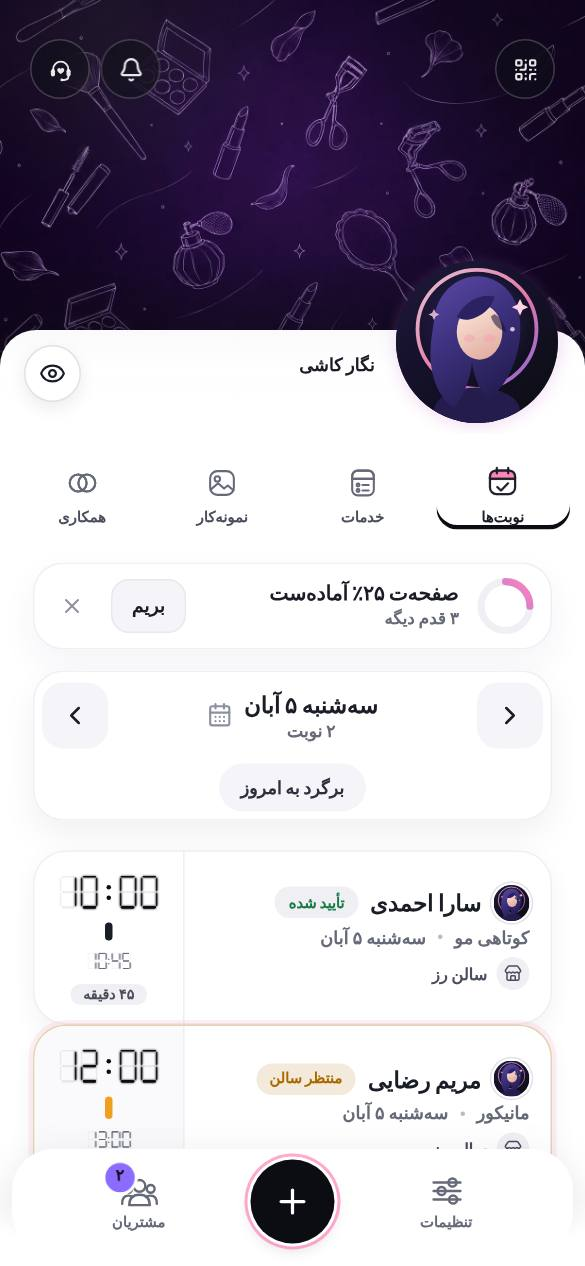
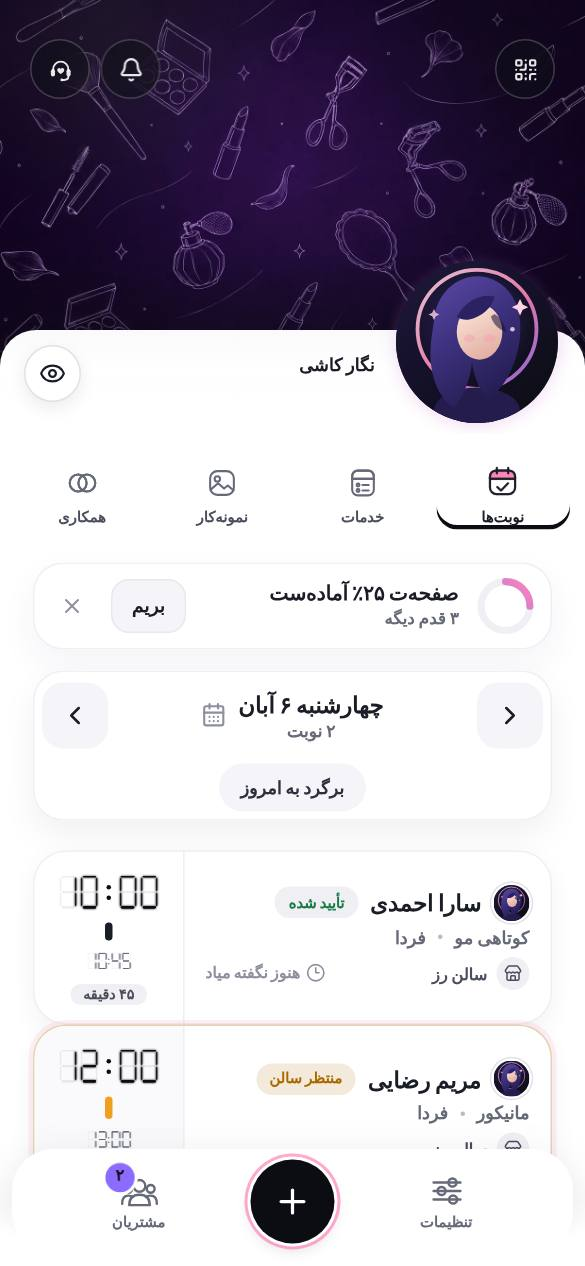
Certainty without a deposit: tests, privacy text, docs, fresh screenshots
Integration tests for «میای؟», the client's record and «خبرم کن»; unit tests
for the shared rules. Privacy page §1/§2 say what salons see. DECISIONS,
ROADMAP and OPERATIONS (the WAITLIST_OPEN SMS pattern) updated. Copy fixes
found on the screenshots.

Claude-Session: https://claude.ai/code/session_01VwnzUk4Foou2FFU7VteQPu

diff --git a/tests/integration/certainty.test.js b/tests/integration/certainty.test.js
@@ -1,0 +1,160 @@
+import { describe, it, expect } from "vitest";
+import { futureBookingDay } from "./helpers.js";
+import {
+  cancelByClient, confirmSalon, moveBooking, moveToDaysAgo, newClient, newSalon, openDb, requestSalon, reminderSweep, salonRow
+} from "./afterVisitKit.js";
+import { bookingStartMs } from "../../app/shared/lib/reminderTiming.js";
+import { formatPersianDateKey } from "../../app/shared/lib/persianCalendar.js";
+import { toLatinDigits } from "../../app/shared/lib/digits.js";
+
+/**
+ * «اطمینان بدون بیعانه» (owner's decision of 2026-10-27): «میای؟» the day before, the client's record across frfro,
+ * and «خبرم کن» for a full day.
+ */
+
+/** A date key and "HH:MM" (Tehran) about `hours` from now, as the app reads them. */
+function slotHoursAhead(hours) {
+  const target = Date.now() + hours * 3600e3;
+  const minutes = (Math.floor(target / 60000) + 210) % 1440;
+  const time = `${String(Math.floor(minutes / 60)).padStart(2, "0")}:${String(minutes % 60).padStart(2, "0")}`;
+  for (const shift of [-1, 0, 1]) {
+    const date = formatPersianDateKey(new Date(target + shift * 86400e3));
+    const start = bookingStartMs(date, time, new Date());
+    if (start !== null && Math.abs(start - target) < 60000) return { date, time };
+  }
+  throw new Error("could not place a slot");
+}
+
+async function confirmedVisit(ctx, who, opts) {
+  const made = await requestSalon(ctx, who, opts);
+  expect(made.ok).toBe(true);
+  const id = made.payload.data.booking.id;
+  expect((await confirmSalon(ctx, id)).ok).toBe(true);
+  return id;
+}
+
+const attend = (who, id, kind = "salon") => who.api.post("/api/booking-attend", { kind, id });
+
+describe("«میای؟»", () => {
+  it("is answered only in the last day before a confirmed visit, by its own client", async () => {
+    const db = openDb();
+    const ctx = await newSalon("Attend");
+    const who = await newClient("Attend Client");
+    const other = await newClient("Other Client");
+    const id = await confirmedVisit(ctx, who, { day: futureBookingDay(3), time: "11:00" });
+
+    // Three days ahead: not asked yet.
+    const early = await attend(who, id);
+    expect(early.status).toBe(409);
+
+    await moveBooking(db, "salon_bookings", id, slotHoursAhead(5));
+    expect((await attend(other, id)).status).toBe(404);
+    const yes = await attend(who, id);
+    expect(yes.ok).toBe(true);
+    expect(yes.payload.data.changed).toBe(true);
+    const again = await attend(who, id);
+    expect(again.payload.data.changed).toBe(false);
+
+    // The salon sees the answer on the booking; the client's own list carries it too.
+    expect((await salonRow(ctx, id)).client_confirmed_at).toBeTruthy();
+    const mine = (await who.api.get("/api/client-bookings")).payload.data.salonBookings.find((b) => b.id === id);
+    expect(mine.client_confirmed_at).toBeTruthy();
+    await db.end();
+  });
+
+  it("the day-before reminder asks the question", async () => {
+    const db = openDb();
+    const ctx = await newSalon("Ask");
+    const who = await newClient("Ask Client");
+    const day = futureBookingDay(2);
+    const id = await confirmedVisit(ctx, who, { day, time: "14:00" });
+    const start = bookingStartMs(day, "14:00", new Date());
+    await reminderSweep(new Date(start - 5 * 3600e3));
+    const sent = await db.query("SELECT kind FROM booking_reminders WHERE source = 'salon' AND booking_id = $1", [id]);
+    expect(sent.rows[0].kind).toMatch(/^day@/);
+    await db.end();
+  });
+});
+
+describe("the client's record", () => {
+  it("counts visits and «نیومد» across salons, and shows it to the salon and the client", async () => {
+    const db = openDb();
+    const a = await newSalon("Record A");
+    const b = await newSalon("Record B");
+    const who = await newClient("Record Client");
+    const came = await confirmedVisit(a, who, { day: futureBookingDay(2), time: "10:00" });
+    const missed = await confirmedVisit(b, who, { day: futureBookingDay(2), time: "12:00" });
+    const missed2 = await confirmedVisit(b, who, { day: futureBookingDay(3), time: "12:00" });
+    await moveToDaysAgo(db, "salon_bookings", came, 10);
+    await moveToDaysAgo(db, "salon_bookings", missed, 9);
+    await moveToDaysAgo(db, "salon_bookings", missed2, 8);
+    await db.query("UPDATE salon_bookings SET no_show_at = NOW() - INTERVAL '8 days' WHERE id = ANY($1::int[])", [[missed, missed2]]);
+
+    // A new request at salon A: A sees the record built at B too.
+    const next = await requestSalon(a, who, { day: futureBookingDay(4), time: "16:00" });
+    const row = await salonRow(a, next.payload.data.booking.id);
+    expect(row.reliability).toEqual({ came: 1, noShow: 2, recentNoShow: 2 });
+
+    const own = (await who.api.get("/api/client-bookings")).payload.data.reliability;
+    expect(own).toEqual({ came: 1, noShow: 2, recentNoShow: 2 });
+    await db.end();
+  });
+});
+
+describe("«خبرم کن»", () => {
+  it("tells a waiting client when a time opens on that day, once", async () => {
+    const db = openDb();
+    const ctx = await newSalon("Wait");
+    const first = await newClient("Wait First");
+    const waiter = await newClient("Wait Second");
+    const day = futureBookingDay(2);
+    const id = await confirmedVisit(ctx, first, { day, time: "10:00" });
+
+    const joined = await waiter.api.post("/api/waitlist", {
+      kind: "salon", ownerId: ctx.id, day, services: [{ name: "کوتاهی مو", minutes: 60 }]
+    });
+    expect(joined.status).toBe(201);
+    expect(joined.payload.data.entries).toHaveLength(1);
+    const entryId = joined.payload.data.entry.id;
+    // 10:00 is taken, so it is not among what was free when they asked.
+    expect(joined.payload.data.freeNow.map(toLatinDigits)).not.toContain("10:00");
+
+    expect((await cancelByClient(first, "salon_bookings", id)).ok).toBe(true);
+    let notified = null;
+    for (let i = 0; i < 20 && !notified; i += 1) {
+      await new Promise((resolve) => setTimeout(resolve, 150));
+      notified = (await db.query("SELECT notified_at, free_signature FROM booking_waitlist WHERE id = $1", [entryId])).rows[0]?.notified_at;
+    }
+    expect(notified).toBeTruthy();
+    const after = (await db.query("SELECT free_signature FROM booking_waitlist WHERE id = $1", [entryId])).rows[0];
+    expect(toLatinDigits(after.free_signature).split(",")).toContain("10:00");
+
+    // The same opening is not announced twice by the scheduler.
+    await reminderSweep();
+    const again = (await db.query("SELECT notified_at FROM booking_waitlist WHERE id = $1", [entryId])).rows[0].notified_at;
+    expect(new Date(again).getTime()).toBe(new Date(notified).getTime());
+
+    // The client's home lists it, and it can be taken away.
+    expect((await waiter.api.get("/api/client-bookings")).payload.data.waitlist.map((e) => e.id)).toContain(entryId);
+    const removed = await waiter.api.delete(`/api/waitlist?id=${entryId}`);
+    expect(removed.ok).toBe(true);
+    expect(removed.payload.data.entries).toHaveLength(0);
+    await db.end();
+  });
+
+  it("is for clients only, within the booking horizon, and a few at a time", async () => {
+    const ctx = await newSalon("Wait Limits");
+    const who = await newClient("Wait Limits Client");
+    const services = [{ name: "کوتاهی مو", minutes: 60 }];
+    expect((await ctx.salonClient.post("/api/waitlist", { kind: "salon", ownerId: ctx.id, day: futureBookingDay(2), services })).status).toBe(403);
+    expect((await who.api.post("/api/waitlist", { kind: "artist", ownerId: ctx.id, day: futureBookingDay(2), services })).status).toBe(409);
+    expect((await who.api.post("/api/waitlist", { kind: "salon", ownerId: ctx.id, day: futureBookingDay(2), services: [] })).status).toBe(400);
+    for (let i = 1; i <= 5; i += 1) {
+      expect((await who.api.post("/api/waitlist", { kind: "salon", ownerId: ctx.id, day: futureBookingDay(i), services })).status).toBe(201);
+    }
+    expect((await who.api.post("/api/waitlist", { kind: "salon", ownerId: ctx.id, day: futureBookingDay(6), services })).status).toBe(409);
+    // Asking again for a day already on the list just renews it.
+    expect((await who.api.post("/api/waitlist", { kind: "salon", ownerId: ctx.id, day: futureBookingDay(1), services })).status).toBe(201);
+  });
+
+});

diff --git a/app/legal/content.js b/app/legal/content.js
@@ -151,6 +151,8 @@ export const privacyContent = {
         "· فهرست پرسنل (برای سالنها)",
         "هنگام استفاده از اپ:",
         "· اطلاعات رزرو (تاریخ، ساعت، نوع خدمت، پرسنل انتخابشده در مورد سالنها، وضعیت رزرو)",
+        "· جواب «میای؟» که روز قبل از نوبت میدی، و اینکه بعد از نوبت سالن یا آرتیست زده باشه «نیومد»",
+        "· روز و جایی که برای جای خالیاش «خبرم کن» زدی",
         "· فالو/آنفالوکردن پروفایلها و ذخیرهی (بوکمارک) پروفایلها و پستها",
         "· پستهایی که آرتیستها و سالنها در فید منتشر میکنن (عکس، کپشن، برچسب)",
         "· اطلاعات نشست ورود (یه کوکی امن که فقط برای شناسایی نشست فعال تو استفاده میشه؛ این کوکی حاوی هیچ اطلاعات شخصی قابلخواندن نیست و روی سرور ذخیره میشه)",
@@ -171,6 +173,8 @@ export const privacyContent = {
         "· فالو/بوکمارک و فید: برای شخصیسازی تجربهی استفاده از اپ",
         "· دنبال کردن یه سالن یا آرتیست: یعنی از اون به بعد با هم در ارتباطید؛ اسم و شمارهٔ موبایل حساب تو به همون سالن/آرتیست نشون داده میشه و جزو مشتریهاش ثبت میشه تا بتونه باهات تماس بگیره یا پیام بفرسته. رمز عبور هیچوقت به کسی نشون داده نمیشه. هر وقت بخوای میتونی دنبال کردن رو لغو کنی",
         "· پوش نوتیفیکیشن: فقط در صورت روشنکردن توسط خودت، برای اطلاعرسانی تغییر وضعیت رزرو (مثلاً تأیید یا لغو نوبت)",
+        "· سابقهٔ اومدن سر نوبت: سالن یا آرتیستی که ازش نوبت گرفتی یا درخواست دادی، کنار اسمت فقط دو عدد میبینه: چند بار توی فرفرو سر نوبت اومدی و چند بار زده شده «نیومد» (جمعِ همهٔ سالنها و آرتیستها، بدون اسم اونها و بدون تاریخ). جواب «میای؟» هم به همون سالن یا آرتیستِ همون نوبت نشون داده میشه. هدف اینه که سالن بدون گرفتن بیعانه خیالش راحت باشه؛ این عددها به هیچکس دیگه نشون داده نمیشه و خودت هم توی اپ میبینیشون. اگه «نیومد»ی اشتباه زده شده، از روی همون نوبت «اشتباهه؟» رو بزن تا پشتیبانی بررسی کنه",
+        "· «خبرم کن»: فقط برای اینکه اگه اون روز جا خالی شد بهت اعلان (و اگه اعلان نرسید، پیامک) بدیم؛ روزش که گذشت، پاک میشه",
         "· سابقهٔ پرداخت اشتراک: برای فعال کردن اشتراک، صدور رسید، پیگیری با بانک، بازپرداخت، یادآوری پایان اشتراک (اعلان و پیامک) و نگهداری اسناد مالی",
         "· اشتراک آرتیستهای تیم سالن: وضعیت اشتراک آرتیستی که عضو تیم یک سالنه (فعال، رایگان یا تمامشده، و تاریخ پایان) به همون سالن نشون داده میشه تا اگه خواست بتونه برای آرتیست پرداخت کنه؛ و وقتی سالن پرداخت کرد، نام سالن در رسید آرتیست و نام آرتیست در رسید سالن دیده میشه"
       ]

diff --git a/tests/unit/attendance.test.js b/tests/unit/attendance.test.js
@@ -1,0 +1,62 @@
+import { describe, it, expect } from "vitest";
+import { attendanceState, ownerAttendanceState, reliabilityView, ownReliabilityLine } from "../../app/shared/lib/attendance.js";
+import { bookingStartMs } from "../../app/shared/lib/reminderTiming.js";
+import { formatPersianDateKey } from "../../app/shared/lib/persianCalendar.js";
+
+const now = new Date("2026-10-27T08:00:00Z"); // 11:30 in Tehran
+
+/** A booking `hours` after `now`, as stored (Persian date key, "HH:MM" Tehran). */
+function at(hours, extra = {}) {
+  const target = now.getTime() + hours * 3600e3;
+  const minutes = (Math.floor(target / 60000) + 210) % 1440;
+  const time = `${String(Math.floor(minutes / 60)).padStart(2, "0")}:${String(minutes % 60).padStart(2, "0")}`;
+  for (const shift of [-1, 0, 1]) {
+    const date = formatPersianDateKey(new Date(target + shift * 86400e3));
+    if (Math.abs(bookingStartMs(date, time, now) - target) < 60000) return { booking_date: date, time, status: "تایید شده", ...extra };
+  }
+  throw new Error("no slot");
+}
+
+describe("«میای؟»", () => {
+  it("asks within the last day of a confirmed visit only", () => {
+    expect(attendanceState(at(30), now)).toBe(null);
+    expect(attendanceState(at(20), now)).toBe("ask");
+    expect(attendanceState(at(1), now)).toBe("ask");
+    expect(attendanceState(at(-1), now)).toBe(null);
+    expect(attendanceState(at(5, { status: "درخواست" }), now)).toBe(null);
+    expect(attendanceState(at(5, { status: "لغو" }), now)).toBe(null);
+    expect(attendanceState(at(5, { proposal: { time: "12:00" } }), now)).toBe(null);
+  });
+
+  it("remembers a yes, even before the window", () => {
+    expect(attendanceState(at(5, { client_confirmed_at: now.toISOString() }), now)).toBe("yes");
+  });
+
+  it("shows the salon or artist the answer for client accounts only", () => {
+    expect(ownerAttendanceState(at(5, { client_user_id: 3 }), now)).toBe("waiting");
+    expect(ownerAttendanceState(at(5, { client_user_id: 3, client_confirmed_at: "x" }), now)).toBe("yes");
+    expect(ownerAttendanceState(at(5), now)).toBe(null);
+    // A salon's own «تازه» is settled; an artist's «تازه» is still a request.
+    expect(ownerAttendanceState(at(5, { client_user_id: 3, status: "تازه" }), now, "salon")).toBe("waiting");
+    expect(ownerAttendanceState(at(5, { client_user_id: 3, status: "تازه" }), now, "artist")).toBe(null);
+  });
+});
+
+describe("the client's record", () => {
+  it("reads as words the salon understands", () => {
+    expect(reliabilityView(null)).toBe(null);
+    expect(reliabilityView({ came: 0, noShow: 0, recentNoShow: 0 }).line).toBe("اولین نوبتش توی فرفروئه.");
+    expect(reliabilityView({ came: 4, noShow: 0, recentNoShow: 0 })).toMatchObject({ tone: "good", chip: "خوشقول", warn: "" });
+    expect(reliabilityView({ came: 2, noShow: 0, recentNoShow: 0 }).chip).toBe("");
+    expect(reliabilityView({ came: 5, noShow: 1, recentNoShow: 1 })).toMatchObject({ tone: "mid", chip: "۱ بار نیومده", warn: "" });
+    const bad = reliabilityView({ came: 5, noShow: 3, recentNoShow: 2 });
+    expect(bad.tone).toBe("bad");
+    expect(bad.warn).toContain("۶ ماه");
+  });
+
+  it("tells the client their own record", () => {
+    expect(ownReliabilityLine({ came: 0, noShow: 0 })).toBe("");
+    expect(ownReliabilityLine({ came: 12, noShow: 0 })).toContain("۱۲ بار");
+    expect(ownReliabilityLine({ came: 3, noShow: 2, recentNoShow: 2 })).toContain("زودتر لغو کن");
+  });
+});

diff --git a/app/features/client/ClientBookingsPanel.jsx b/app/features/client/ClientBookingsPanel.jsx
@@ -209,7 +209,7 @@ export function ClientBookingsPanel({ bookings = [], onOpenSettings, onRebook, c
                   <li key={entry.id} className={entry.notified_at ? "is-open" : ""}>
                     <button type="button" className="cbpWaitMain" onClick={open}>
                       <span>{entry.owner_name || (entry.owner_kind === "artist" ? "آرتیست" : "سالن")}، {formatRelativeBookingDayLabel(entry.booking_date)}</span>
-                      <small>{entry.notified_at ? "یه جا خالی شد؛ بزن و زود بگیرش" : `${services}؛ خالی شد، خبرت میکنیم`}</small>
+                      <small>{entry.notified_at ? "یه جا خالی شد؛ بزن و زود بگیرش" : `${services}؛ اگه جا باز شد خبرت میکنیم`}</small>
                     </button>
                     {onLeaveWaitlist ? (
                       <button type="button" className="cbpWaitDrop" aria-label="دیگه خبرم نکن" onClick={() => onLeaveWaitlist(entry)}>

diff --git a/app/features/schedule/ScheduleBookingMenuModal.jsx b/app/features/schedule/ScheduleBookingMenuModal.jsx
@@ -4,6 +4,7 @@ import { useEffect, useMemo, useState } from "react";
 import { ServiceIcon } from "../../components/ServiceIcon";
 import { ownerAttendanceState, reliabilityView } from "../../shared/lib/attendance";
 import {
+  AlertTriangle,
   ArrowRight,
   BadgeCheck,
   CalendarCheck,
@@ -266,7 +267,7 @@ function ClientTrust({ booking }) {
     <div className={`sbmTrust${record?.warn ? " is-warn" : ""}`}>
       {record ? (
         <p>
-          <BadgeCheck size={15} aria-hidden="true" />
+          {record.warn ? <AlertTriangle size={15} aria-hidden="true" /> : <BadgeCheck size={15} aria-hidden="true" />}
           <span>{record.line}{record.warn ? ` ${record.warn}` : ""}</span>
         </p>
       ) : null}

diff --git a/app/features/booking/WaitlistButton.jsx b/app/features/booking/WaitlistButton.jsx
@@ -37,7 +37,7 @@ export function WaitlistButton({ kind, ownerId, day, dayLabel = "", services, pl
         <span>
           {current.freeNow.length
             ? `الان ساعت ${clockText(current.freeNow[0])} خالیه؛ همین روز رو یه بار دیگه بزن.`
-            : `باشه! ${dayLabel || "این روز"} اگه ${placeLabel || "جایی"} خالی شد، همون لحظه خبرت میکنیم.`}
+            : `باشه! ${dayLabel || "این روز"} اگه ${placeLabel || "اونجا"} جا خالی شد، همون لحظه خبرت میکنیم.`}
         </span>
       </div>
     );

diff --git a/docs/OPERATIONS.md b/docs/OPERATIONS.md
@@ -87,13 +87,14 @@
 ### پیامکهای الگو (نوبت و اشتراک)
 دو پیامک نوبت مهمتریناند: Push مرورگر (بهخصوص در آیفون) در ایران قابلاتکا نیست، پس بدون پیامک سالن از درخواست تازه خبر ندارد و درخواست بعد از مهلت منقضی میشود. کسی که اپ اندروید فرفرو را دارد و اعلانش روشن است، بهجای پیامک فقط اعلان اپ میگیرد (پایینتر: «اعلان اپ اندروید»). متن پیشنهادی: «فرفرو: درخواست تازه از %who%، %day% ساعت %time%. توی اپ جواب بده.» (مشتری میتواند تا خود نوبت صبر کند، پس متن از منقضی شدن حرف نمیزند؛ وقتی درخواست به سالن یا آرتیست دوم میرود، به او هم همین پیامک میرسد) و «فرفرو: نوبتت %day% ساعت %time% توی %who% %result%.» (نتیجه: «تأیید شد»، «لغو شد» یا «منقضی شد»؛ منقضی شدن فقط به مشتریای پیامک میشود که اعلانی به او نرسید).
 
-شانزده پیامک، هر کدام با الگوی جدا در سرویس پیامک و یک متغیر محیطی. تا الگو تنظیم نشود، فقط اعلان گوشی میرود. متن پیشنهادی و نام متغیرها در `app/lib/smsTemplates.js` است:
+هفده پیامک، هر کدام با الگوی جدا در سرویس پیامک و یک متغیر محیطی. تا الگو تنظیم نشود، فقط اعلان گوشی میرود. متن پیشنهادی و نام متغیرها در `app/lib/smsTemplates.js` است:
 | پیامک | کاوهنگار | فراز اساماس | متغیرها |
 |---|---|---|---|
 | درخواست نوبت تازه (به سالن یا آرتیست) | `KAVENEGAR_TEMPLATE_BOOKING_REQUEST` | `FARAZSMS_PATTERN_BOOKING_REQUEST` | token=ساعت، token10=روز، token20=مشتری و خدمت / `%who%` `%day%` `%time%` |
 | جواب درخواست نوبت (به مشتری) | `…_BOOKING_ANSWER` | `…_BOOKING_ANSWER` | token=ساعت، token10=روز، token20=سالن و نتیجه / `%who%` `%day%` `%time%` `%result%` |
 | یادآوری دو ساعت قبل (فقط به مشتریای که هیچ اعلانی به او نرسید، بیشتر آیفون) | `…_BOOKING_REMINDER` | `…_BOOKING_REMINDER` | token=ساعت، token10=سالن / `%who%` `%time%` |
 | لغو نوبت از طرف مشتری (به سالن یا آرتیست) | `…_BOOKING_CLIENT_CANCELLED` | `…_BOOKING_CLIENT_CANCELLED` | token=ساعت، token10=روز، token20=مشتری / `%who%` `%day%` `%time%` |
+| «خبرم کن»: جا خالی شد (فقط به مشتریای که اعلانش نرسید، روزی حداکثر ۳ تا). متن: «فرفرو: %who%، %day% ساعت %time% جا خالی شد. زود توی فرفرو بگیرش.» | `…_WAITLIST_OPEN` | `…_WAITLIST_OPEN` | token=ساعت، token10=روز، token20=سالن یا آرتیست / `%who%` `%day%` `%time%` |
 | رسید پرداخت (به پرداختکننده) | `KAVENEGAR_TEMPLATE_BILLING_RECEIPT` | `FARAZSMS_PATTERN_BILLING_RECEIPT` | token=شمارهٔ رسید، token2=مبلغ، token3=تاریخ پایان / `%receipt%` `%amount%` `%until%` |
 | یادآوری ۵ روز و ۱ روز مانده | `…_BILLING_REMINDER` | `…_BILLING_REMINDER` | token=روز، token2=تاریخ / `%days%` `%until%` |
 | پایان اشتراک (شروع مهلت) | `…_BILLING_ENDED` | `…_BILLING_ENDED` | token=روزهای مهلت / `%days%` |

diff --git a/docs/ROADMAP.md b/docs/ROADMAP.md
@@ -506,4 +506,6 @@
 3. **بیعانه** (صاحب محصول ۲۵ اکتبر گفت «فعلاً نه»): نسخهٔ بیدرگاه، کارتبهکارت با «واریز کردم» و «رسید / نرسید» سالن؛ پول از فرفرو رد نمیشود؛ مهلت ۲ ساعت؛ قانون لغو از سه گزینهٔ آماده؛ بعداً درگاه خود سالن. قبل از شروع، نظر وکیل.
 
 ### بیعانه: نتیجهٔ بررسیها (۲۷ اکتبر ۲۰۲۶)
-کارتبهکارت خودکار و تسهیم را صاحب محصول رد کرد (`docs/DECISIONS.md`). بیعانه با درگاه فرفرو و واریز شبانه به شبا شدنی است ولی شرکت، اینماد، قرارداد کتبی با درگاه، وکیل و حسابدار میخواهد (صفحهها: https://claude.ai/artifact/2sUgAHoz56Supj4aM386eY و https://claude.ai/artifact/LqEABhuZEGA9YFtiuxmuKQ). پیشنهاد Claude بهجای آن، «اطمینان بدون بیعانه» در پنج پله: «میای؟» روز قبل با دو دکمه، سابقهٔ آمد/نیامد مشتری در کل فرفرو کنار اسمش، تأیید سالن بعد از دو «نیومد» در شش ماه، صف انتظار برای ساعت پر، و بیعانهٔ واقعی بعداً فقط برای بدقولها (صفحه: https://claude.ai/artifact/PmhioRKomAVBGGMowhFEsd). منتظر جواب صاحب محصول.
+کارتبهکارت خودکار و تسهیم را صاحب محصول رد کرد (`docs/DECISIONS.md`). بیعانه با درگاه فرفرو و واریز شبانه به شبا شدنی است ولی شرکت، اینماد، قرارداد کتبی با درگاه، وکیل و حسابدار میخواهد (صفحهها: https://claude.ai/artifact/2sUgAHoz56Supj4aM386eY و https://claude.ai/artifact/LqEABhuZEGA9YFtiuxmuKQ). پیشنهاد Claude بهجای آن، «اطمینان بدون بیعانه» در پنج پله: «میای؟» روز قبل با دو دکمه، سابقهٔ آمد/نیامد مشتری در کل فرفرو کنار اسمش، تأیید سالن بعد از دو «نیومد» در شش ماه، صف انتظار برای ساعت پر، و بیعانهٔ واقعی بعداً فقط برای بدقولها (صفحه: https://claude.ai/artifact/PmhioRKomAVBGGMowhFEsd).
+
+**ساخته شد (۲۷ اکتبر ۲۰۲۶، به درخواست صاحب محصول):** پلههای ۱ تا ۴ (`docs/DECISIONS.md`). پلهٔ سوم به هشدار روی درخواست تبدیل شد، چون همهٔ درخواستها از قبل تأیید سالن میخواهند. باز مانده: الگوی پیامک `WAITLIST_OPEN` را صاحب محصول در پنل پیامک بسازد (`docs/OPERATIONS.md`)؛ پلهٔ پنجم (بیعانهٔ واقعی برای بدقولها) بعد از ثبت شرکت.

diff --git a/docs/DECISIONS.md b/docs/DECISIONS.md
@@ -102,3 +102,8 @@ One line each, dated. Claude reads this before asking questions.
 - 2026-10-27: Who is an admin stays the server's list of phones (`FRFRO_ADMIN_PHONES`); no admin is added from inside the panel. The «فرفرو مدیر» app's news belongs to the admin account (sign in once in that app again). Past support replies and the admin log stay as they are.
 - 2026-10-27: Card-to-card auto-confirm services (bank-SMS readers such as Residino) for deposits: rejected by the owner («اصلاً روش خوبی نیست»); next study is deposits through frfro's own gateway with split settlement.
 - 2026-10-27: Deposits by split settlement (each salon registered as a Shaparak partner): rejected by the owner (limits of 5 to 10 accounts, long sign-up, too much data for thousands of salons). Wanted: the salon gives only its Sheba number and the payout stays legal.
+- 2026-10-27 (deposits, owner: «همین کلی سیستمی که گفتی رو پیاده بکن، کامل»): no deposit for now; instead «اطمینان بدون بیعانه»: «میای؟» the day before, the client's came / «نیومد» record across frfro, a warning on risky requests, and «خبرم کن» for full days. A real deposit stays for later, only for unreliable clients, once frfro is a company.
+- 2026-10-27: «میای؟» shows on the client's visit card from 24 hours before a confirmed visit until it starts; the day-before reminder asks it. «آره، میام» is stored and shown to the salon or artist («گفته میاد» / «هنوز نگفته میاد»); «نمیتونم» asks once more, then is the ordinary client cancel. No push goes to the salon for a yes.
+- 2026-10-27: The client's record is shown as two numbers only (came, «نیومد»), summed over all of frfro without naming the other places or dates, and only to a salon or artist the client booked or asked; the client sees their own. Privacy page §2 says so.
+- 2026-10-27: Every client request already waits for the salon's or artist's «تأیید», so the planned "approval after 2 no-shows" became a red warning on the request card for 2 or more «نیومد» in 6 months («اگه خواستی قبل از تأیید یه زنگ بزن»). Nothing is refused automatically.
+- 2026-10-27: «خبرم کن»: per client, place and day, for the services picked, up to 5 days at once, up to 60 days ahead. When a time for those services opens that day, everyone waiting hears at once (push, SMS pattern `WAITLIST_OPEN` if the push did not reach the app, at most 3 such texts a day): first to book gets it. The same opening is never announced twice. It is offered in the salon booking form on a day with no free time (not with «رزرو با …») and under the artist's day strip for full days. Entries go once the day is over or the client has a visit there that day.
